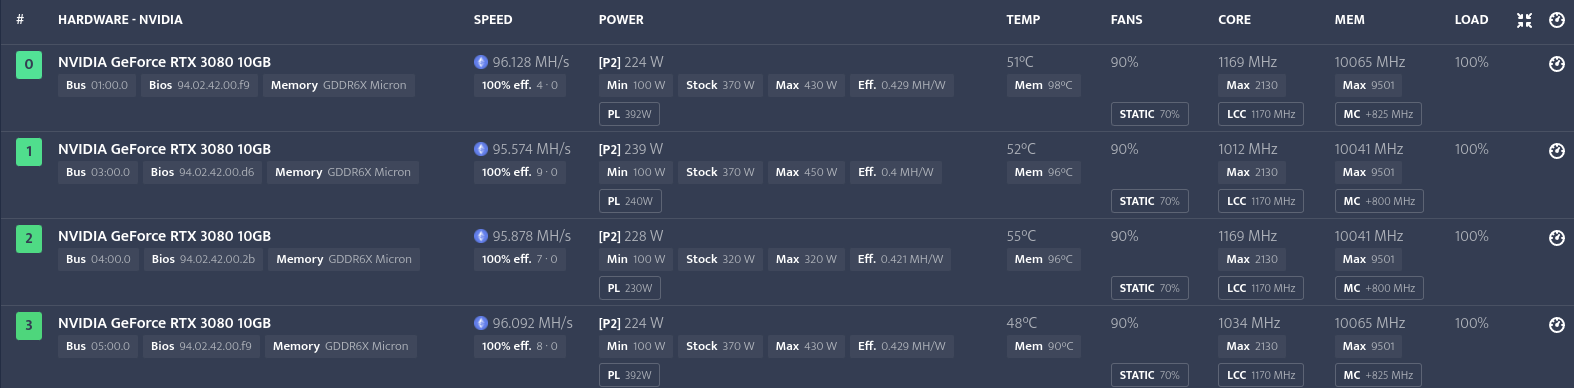
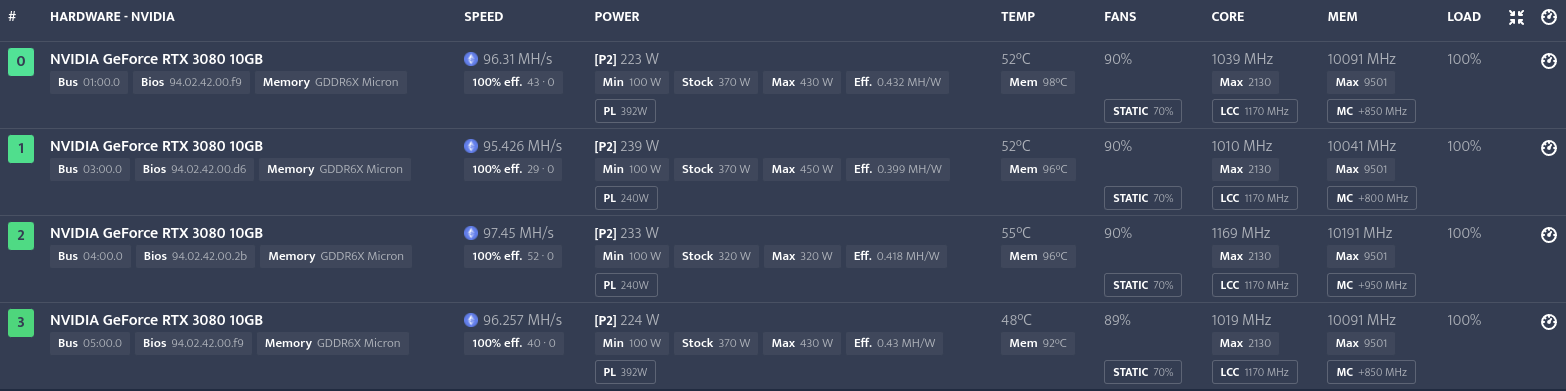
update

diff --git a/_posts/2021-03-10-Thiet-lap-thong-so-3080---Dan-#1.md b/_posts/2021-03-10-Thiet-lap-thong-so-3080---Dan-#1.md
@@ -74,10 +74,10 @@ tinh chỉnh ở mức thấp hơn mức cho phép trên **MSI Afterburner** (nh
 
 | No | VGA                           | Power Limit (Walt) | Locked Core Clock (MHz) | Memory Clock (-/+ MHz) |
 |----|-------------------------------|--------------------|-------------------------|------------------------|
-| 1  | MSI 3080 GAMING X TRIO        | 392                | 1170                    | 825                    |
+| 1  | MSI 3080 GAMING X TRIO        | 392                | 1170                    | 850                    |
 | 2  | ASUS 3080 ROG STRIX GAMING OC | 240                | 1170                    | 800                    |
-| 3  | MSI 3080 VENTUS 10G OC        | 240                | 1170                    | 800                    |
-| 4  | MSI 3080 GAMING X TRIO        | 392                | 1170                    | 825                    |
+| 3  | MSI 3080 VENTUS 10G OC        | 240                | 1170                    | 950                    |
+| 4  | MSI 3080 GAMING X TRIO        | 392                | 1170                    | 850                    |
 
 ## b. Triggers trong Minerstat
 - IF GPU temperature OF Any IS >=40°C THEN Set fans TO 60%
@@ -90,12 +90,12 @@ tinh chỉnh ở mức thấp hơn mức cho phép trên **MSI Afterburner** (nh
 
 | No. VGA                           | Power Consumption | Hashrate         | GPU Temperature | Memory Temperature |
 |-----------------------------------|-------------------|------------------|-----------------|--------------------|
-| [1] MSI 3080 GAMING X TRIO        | 224 Walt          | 96.128 MH/s      | 51C             | 98C                |
-| [2] ASUS 3080 ROG STRIX GAMING OC | 239 Walt          | 95.574 MH/s      | 52C             | 96C                |
-| [3] MSI 3080 VENTUS 10G OC        | 228 Walt          | 95.878 MH/s      | 55C             | 96C                |
-| [4] MSI 3080 GAMING X TRIO        | 224 Walt          | 96.096 MH/s      | 48C             | 90C                |
+| [1] MSI 3080 GAMING X TRIO        | 223 Walt          | 96.310 MH/s      | 52C             | 98C                |
+| [2] ASUS 3080 ROG STRIX GAMING OC | 239 Walt          | 95.426 MH/s      | 52C             | 96C                |
+| [3] MSI 3080 VENTUS 10G OC        | 233 Walt          | 97.450 MH/s      | 55C             | 96C                |
+| [4] MSI 3080 GAMING X TRIO        | 224 Walt          | 96.257 MH/s      | 48C             | 92C                |
 |                                   |                   |                  |                 |                    |
-| **Total**                         | **915 Walt**      | **383.676 MH/s** | --              | --                 |
+| **Total**                         | **919 Walt**      | **385.443 MH/s** | --              | --                 |
 
 {% include image.html url="/image/posts/2021-03-10-Thiet-lap-thong-so-3080---Dan-1/3.png" description="[3] MinerStat" %}
 
